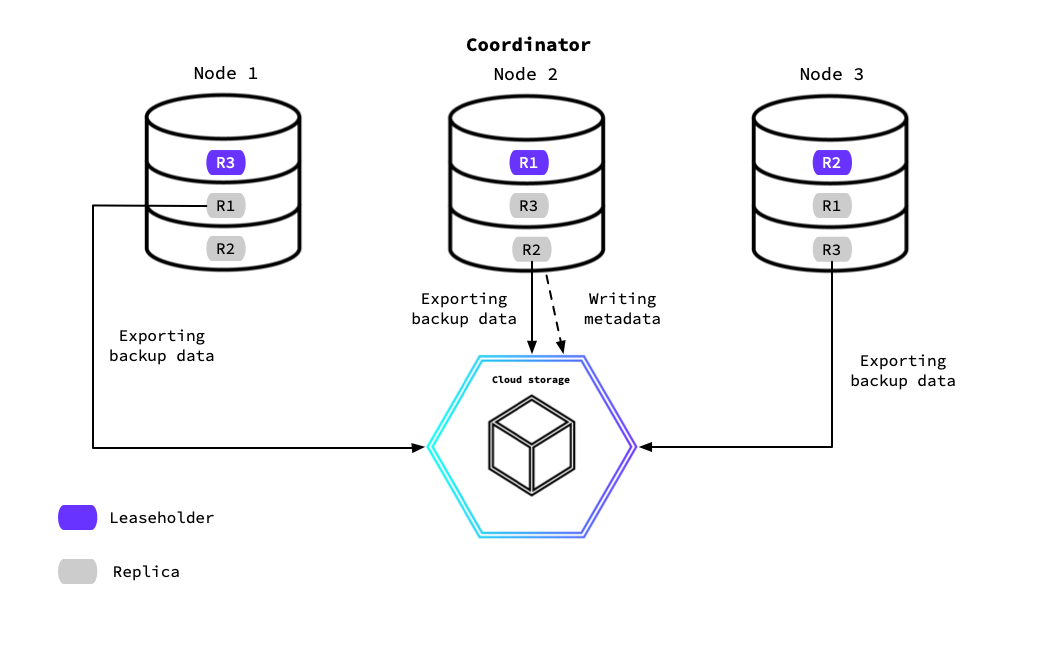
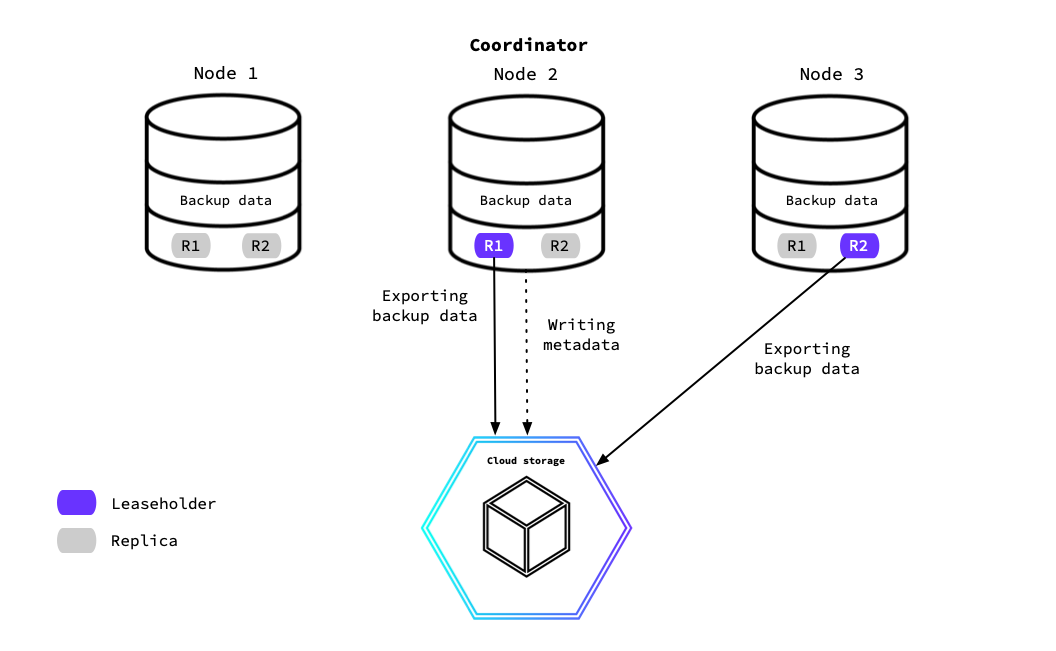
Remove v23.1 files

diff --git a/src/current/v23.1/backup-architecture.md b/src/current/v23.1/backup-architecture.md
@@ -57,7 +57,7 @@ Once one of the nodes has claimed the job from the system jobs table, it will ta
 - Determine the specific subdirectory for this backup, including if it should be incremental from any discovered existing directories.
 - Calculate the keys of the backup data, as well as the time ranges if the backup is incremental.
 - Determine the [leaseholder]({% link {{ page.version.version }}/architecture/overview.md %}#architecture-leaseholder) nodes for the keys to back up.
-- Provide a plan to the nodes that will execute the data export.
+- Provide a plan to the nodes that will execute the data export (typically the leaseholder node).
 
 To map out the storage location's directory where the nodes will write the data, the coordinator identifies the [type]({% link {{ page.version.version }}/backup-and-restore-overview.md %}#backup-and-restore-product-support) of backup. This determines the name of the new (or edited) directory to store the backup files in. For example, if there is an existing full backup already exists in the target storage location, the next backup will be [incremental]({% link {{ page.version.version }}/take-full-and-incremental-backups.md %}#incremental-backups) and therefore will be appended to the full backup after any existing incremental layers discovered in it.
 
@@ -67,9 +67,9 @@ For more information on how CockroachDB structures backups in storage, refer to 
 
 ### Key and time range resolution
 
-In this part of the resolution phase, the coordinator will calculate all the necessary spans of keys and their time ranges that the cluster needs to export for this backup. It divides the key spans to distribute the work to a node that has a replica of the range to back up. If a locality filter is specified, work is distributed to a node from those that match the locality filter and has the most locality tiers in common with a node that has a replica. (For more details on backups and locality, refer to [Backup jobs with locality](#backup-jobs-with-locality).)
+In this part of the resolution phase, the coordinator will calculate all the necessary spans of keys and their time ranges that the cluster needs to export for this backup. It divides the key spans based on which node is the [leaseholder]({% link {{ page.version.version }}/architecture/overview.md %}#architecture-leaseholder) of the range for that key span. Every node has a SQL processor on it to process the backup plan that the coordinator will pass to it. Typically, it is the backup SQL processor on the leaseholder node for the key span that will complete the export work.
 
-Every node has a SQL processor on it to process the backup plan that the coordinator will pass to it. Each of the node's backup SQL processors are responsible for:
+Each of the node's backup SQL processors are responsible for:
 
 1. Asking the [storage layer]({% link {{ page.version.version }}/architecture/storage-layer.md %}) for the content of each key span.
 1. Receiving the content from the storage layer.
@@ -81,15 +81,15 @@ Since any node in a cluster can become the coordinator and all nodes could be re
 
 Once the coordinator has provided a plan to each of the backup SQL processors that specifies the backup data, the distributed export of the backup data begins.
 
-In the following diagram, nodes that contain replicas of the relevant key spans will export the data to the specified storage location.
+In the following diagram, **Node 2** and **Node 3** contain the leaseholders for the **R1** and **R2** [ranges]({% link {{ page.version.version }}/architecture/overview.md %}#architecture-range). Therefore, in this example backup job, the backup data will be exported from these nodes to the specified storage location.
 
-While processing, the nodes emit progress data that tracks their backup work to the coordinator. In the diagram, **Node 3** and **Node 1** will send progress data to **Node 2**. The coordinator node will then aggregate the progress data into checkpoint files in the storage bucket. The checkpoint files provide a marker for the backup to resume after a retryable state, such as when it has been [paused]({% link {{ page.version.version }}/pause-job.md %}).
+While processing, the nodes emit progress data that tracks their backup work to the coordinator. In the diagram, **Node 3** will send progress data to **Node 2**. The coordinator node will then aggregate the progress data into checkpoint files in the storage bucket. The checkpoint files provide a marker for the backup to resume after a retryable state, such as when it has been [paused]({% link {{ page.version.version }}/pause-job.md %}).
 
 <img src="{{ 'images/v23.1/backup-processing.png' | relative_url }}" alt="Three-node cluster exporting backup data from the leaseholders" style="border:0px solid #eee;max-width:100%" />
 
 ## Metadata writing phase
 
-Once each of the nodes have fully completed their data export work, the coordinator will conclude the backup job by writing the backup metadata files. In the diagram, **Node 2** is exporting the backup data for **R2** as it holds the replica containing the data, but this node also exports the backup's metadata as the coordinator.
+Once each of the nodes have fully completed their data export work, the coordinator will conclude the backup job by writing the backup metadata files. In the diagram, **Node 2** is exporting the backup data for **R1** as that range's leaseholder, but this node also exports the backup's metadata as the coordinator.
 
 The backup metadata files describe everything a backup contains. That is, all the information a [restore]({% link {{ page.version.version }}/restore.md %}) job will need to complete successfully. A backup without metadata files would indicate that the backup did not complete properly and would not be restorable.
 
@@ -106,7 +106,11 @@ CockroachDB supports two backup features that use a node's locality to determine
 
 When you create a [locality-aware backup]({% link {{ page.version.version }}/take-and-restore-locality-aware-backups.md %}) job, any node in the cluster can [claim the backup job](#job-creation-phase). A successful locality-aware backup job requires that each node in the cluster has access to each storage location. This is because any node in the cluster can claim the job and become the coordinator node. Once each node informs the coordinator node that it has completed exporting the row data, the coordinator will start to write metadata, which involves writing to each locality bucket a partial manifest recording what row data was written to that [storage bucket]({% link {{ page.version.version }}/use-cloud-storage.md %}).
 
+Every node involved in the backup is responsible for backing up the ranges for which it was the [leaseholder]({% link {{ page.version.version }}/architecture/replication-layer.md %}#leases) at the time the coordinator planned the [distributed backup flow]({% link {{ page.version.version }}/backup-architecture.md %}#resolution-phase).
+
 Every node backing up a [range]({% link {{ page.version.version }}/architecture/overview.md %}#range) will back up to the storage bucket that most closely matches that node's locality. The backup job attempts to back up ranges through nodes matching the range's locality. As a result, there is no guarantee that all ranges will be backed up to their locality's storage bucket. For additional detail on locality-aware backups in the context of a CockroachDB {{ site.data.products.serverless }} cluster, refer to [Job coordination on Serverless clusters](#job-coordination-on-serverless-clusters).
+
+The node exporting the row data, and the leaseholder of the range being backed up, are usually the same. However, these nodes can differ when lease transfers have occurred during the [execution](#export-phase) of the backup. In this case, the leaseholder node returns the files to the node exporting the backup data (usually a local transfer), which then writes the file to the external storage location with a locality that usually matches its own localities (with an overall preference for more specific values in the locality hierarchy). If there is no match, the `default` locality is used.
 
 For example, in the following diagram there is a three-node cluster split across three regions. The leaseholders write the ranges to be backed up to the external storage in the same region. As **Nodes 1** and **3** complete their work, they send updates to the coordinator node (**Node 2**). The coordinator will then [write the partial manifest files](#metadata-writing-phase) containing metadata about the backup work completed on each external storage location, which is stored with the backup SST files written to that storage location.
 
@@ -124,11 +128,12 @@ When you start or [resume]({% link {{ page.version.version }}/resume-job.md %}) 
 
 If you create a backup job on a [gateway node]({% link {{ page.version.version }}/architecture/sql-layer.md %}#overview) with a locality filter that does **not** meet the filter requirement in `EXECUTION LOCALITY`, and the job does not use the [`DETACHED`]({% link {{ page.version.version }}/backup.md %}#detached) option, the job will return an error indicating that it moved execution to another node. This error is returned because when you create a job without the [`DETACHED`]({% link {{ page.version.version }}/backup.md %}#detached) option, the [job execution]({% link {{ page.version.version }}/backup-architecture.md %}#resolution-phase) must run to completion by the gateway node while it is still attached to the SQL client to return the result.
 
-Once the coordinating node is determined, it will [assign chunks of row data]({% link {{ page.version.version }}/backup-architecture.md %}#resolution-phase) to eligible nodes, and each node reads its assigned row data and backs it up.
+Once the coordinating node is determined, it will [assign chunks of row data]({% link {{ page.version.version }}/backup-architecture.md %}#resolution-phase) to eligible nodes, and each node reads its assigned row data and backs it up. The coordinator will assign row data only to those nodes that match the backup job's locality filter in full. The following situations could occur:
 
-During the resolution phase of the backup job, the coordinator will plan the [distributed backup flow]({% link {{ page.version.version }}/backup-architecture.md %}#resolution-phase). When there is a locality filter specified, the coordinator will choose a node holding a replica that either matches the filter, or has the most locality tiers in common with the filter. This node will be responsible for backing up those ranges.
+- If the [leaseholder]({% link {{ page.version.version }}/architecture/reads-and-writes-overview.md %}#architecture-leaseholder) for part of the row data matches the filter, the coordinator will assign it the matching row data to process.
+- If the leaseholder does not match the locality filter, the coordinator will select a node from the eligible nodes with a preference for those with localities that are closest to the leaseholder.
 
-When the coordinator assigns row data to a node matching the locality filter to back up, that node will read from the closest [replica]({% link {{ page.version.version }}/architecture/reads-and-writes-overview.md %}#architecture-replica). If the node is itself a replica, it can read from itself. In the scenario where no replicas are available in the region of the assigned node, it may then read from a replica in a different region. As a result, you may want to consider [placing replicas]({% link {{ page.version.version }}/configure-replication-zones.md %}), including potentially non-voting replicas that will have less impact on read latency, in the locality or region you plan on pinning for backup job execution.
+When the coordinator assigns row data to a node matching the locality filter to back up, that node will read from the closest [replica]({% link {{ page.version.version }}/architecture/reads-and-writes-overview.md %}#architecture-replica). If the node is the leaseholder, or is itself a replica, it can read from itself. In the scenario where no replicas are available in the region of the assigned node, it may then read from a replica in a different region. As a result, you may want to consider [placing replicas]({% link {{ page.version.version }}/configure-replication-zones.md %}), including potentially non-voting replicas that will have less impact on read latency, in the locality or region you plan on pinning for backup job execution.
 
 {{site.data.alerts.callout_info}}
 Similarly to [locality-aware backups]({% link {{ page.version.version }}/take-and-restore-locality-aware-backups.md %}), the backup job will send [ranges]({% link {{ page.version.version }}/architecture/overview.md %}#range) to the cloud storage bucket matching the node's locality.

diff --git a/src/current/v23.1/take-locality-restricted-backups.md b/src/current/v23.1/take-locality-restricted-backups.md
@@ -52,9 +52,9 @@ This section outlines some example uses of the `EXECUTION LOCALITY` option.
 
 For security or other reasons, a cluster may be subject to network rules across regions or to other locality requirements. For example, if you have a requirement that only nodes within the same region as the backup [cloud storage]({% link {{ page.version.version }}/use-cloud-storage.md %}) location can access the storage bucket, you can configure the backup job's `EXECUTION LOCALITY` to execute only on nodes with network access to the bucket.
 
-The following diagram shows a CockroachDB cluster where each of the nodes can communicate with each other through a specific port, but any other network traffic between regions is blocked. Replicas in regions that do not match the cloud storage region (Node 2) cannot access the storage to [export backup data]({% link {{ page.version.version }}/backup-architecture.md %}#export-phase).
+The following diagram shows a CockroachDB cluster where each of the nodes can communicate with each other through a specific port, but any other network traffic between regions is blocked. Leaseholders in regions that do not match the cloud storage region (Node 2) cannot access the storage to [export backup data]({% link {{ page.version.version }}/backup-architecture.md %}#export-phase).
 
-Instead, Node 3's locality does match the backup job's `EXECUTION LOCALITY`. Replicas that match a backup job's locality designation and hold the backup job's row data will begin reading and exporting to cloud storage.
+Instead, Node 3's locality does match the backup job's `EXECUTION LOCALITY`. Leaseholders and replicas that match a backup job's locality designation and hold the backup job's row data will begin reading and exporting to cloud storage.
 
 <img src="{{ 'images/v23.1/network-restriction.png' | relative_url }}" alt="Using execution locality when there is a network restriction between locality requirements" style="border:0px solid #eee;max-width:100%" />
 

diff --git a/src/current/v23.1/backup.md b/src/current/v23.1/backup.md
@@ -140,7 +140,7 @@ The `system.users` table stores your users and their passwords. To restore your 
 
 The backup job process minimizes its impact to the cluster's performance with:
 
-- {% include_cached new-in.html version="v23.1.14" %} Even distribution of work to a node that has a replica of the range to back up. If a locality filter is specified, work is distributed to a node from those that match the locality filter and has the most locality tiers in common with a node that has a replica. Refer to the [Backup Architecture]({% link {{ page.version.version }}/backup-architecture.md %}) page for a detailed explanation of how a backup job works.
+- Distribution of work to all nodes. Each node backs up only a specific subset of the data it stores (those for which it serves writes), with no two nodes backing up the same data. Refer to the [Backup Architecture]({% link {{ page.version.version }}/backup-architecture.md %}) page for a detailed explanation of how a backup job works.
 - {% include_cached new-in.html version="v23.1" %} Integration with elastic CPU limiter by default, which helps to minimize the impact backups have on foreground traffic. This integration will limit the amount of CPU time used by a backup thereby allowing foreground SQL traffic to continue largely unaffected.
 
 A backup job, like any read, cannot export a range if the range contains an [unresolved intent]({% link {{ page.version.version }}/architecture/transaction-layer.md %}#resolving-write-intents). While it is important to minimize the impact of bulk, background jobs like `BACKUP` on your foreground traffic, it is still crucial for backups to finish (in order to maintain your [recovery point objective (RPO)](https://en.wikipedia.org/wiki/Disaster_recovery#Recovery_Point_Objective)).
